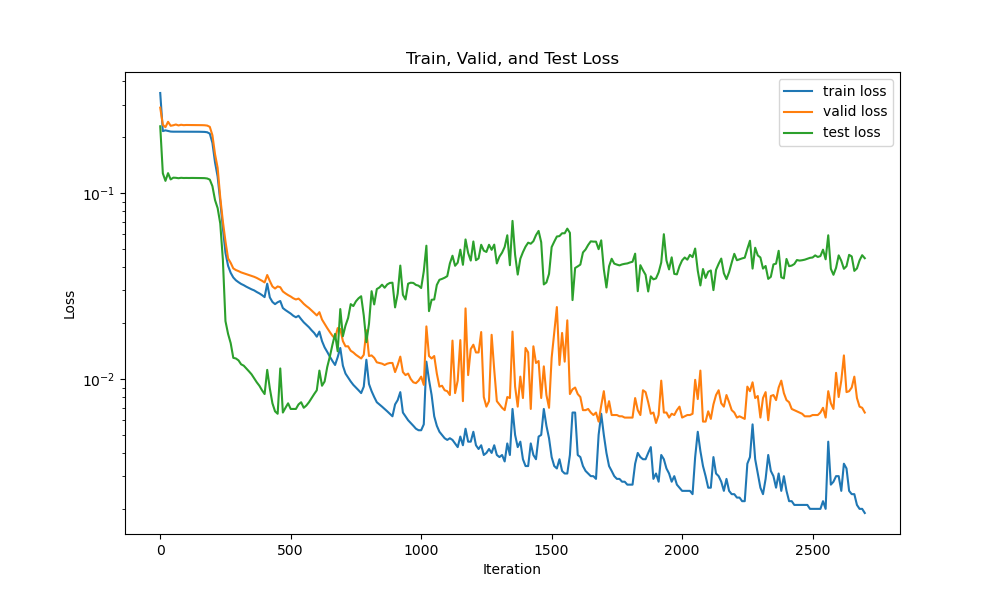
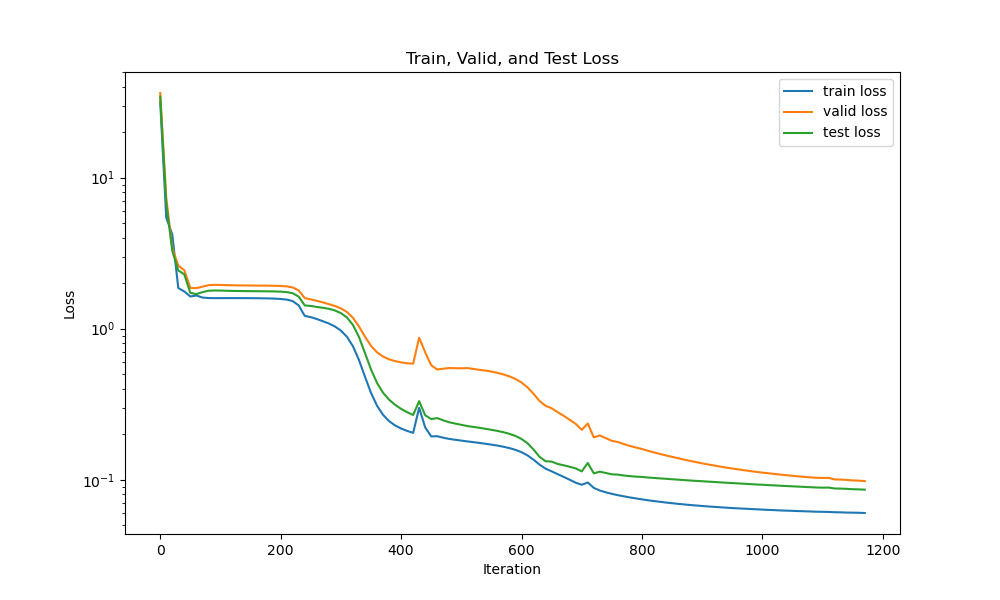
FInished selkov on daffy duck

diff --git a/regression/arguments.py b/regression/arguments.py
@@ -21,13 +21,13 @@ def parse_args():
 
     parser.add_argument('--num_inner_updates', type=int, default=1, help='number of inner-loop updates (during training)')
 
-    ## FOr Selkov !
-    # parser.add_argument('--num_context_params', type=int, default=256, help='number of context parameters (added at first layer)')
-    # parser.add_argument('--num_hidden_layers', type=int, nargs='+', default=[82]*5)
+    # FOr Selkov !
+    parser.add_argument('--num_context_params', type=int, default=256, help='number of context parameters (added at first layer)')
+    parser.add_argument('--num_hidden_layers', type=int, nargs='+', default=[84]*5)
 
     ## For GO
-    parser.add_argument('--num_context_params', type=int, default=1024, help='number of context parameters (added at first layer)')
-    parser.add_argument('--num_hidden_layers', type=int, nargs='+', default=[178]*5)
+    # parser.add_argument('--num_context_params', type=int, default=1024, help='number of context parameters (added at first layer)')
+    # parser.add_argument('--num_hidden_layers', type=int, nargs='+', default=[178]*5)
 
     parser.add_argument('--first_order', action='store_true', default=False, help='run first-order version')
 
